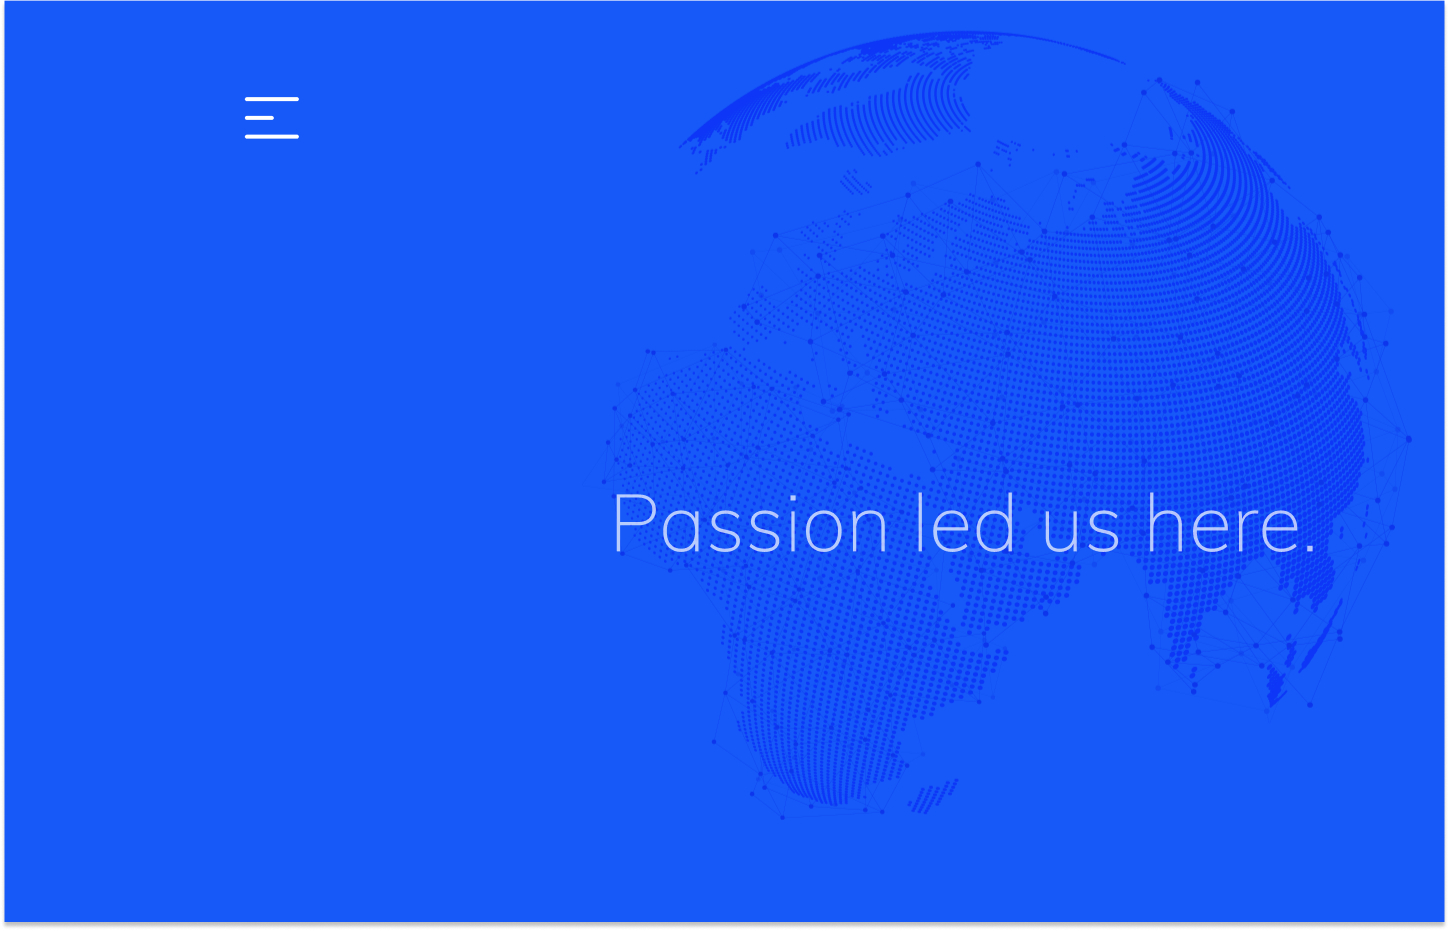
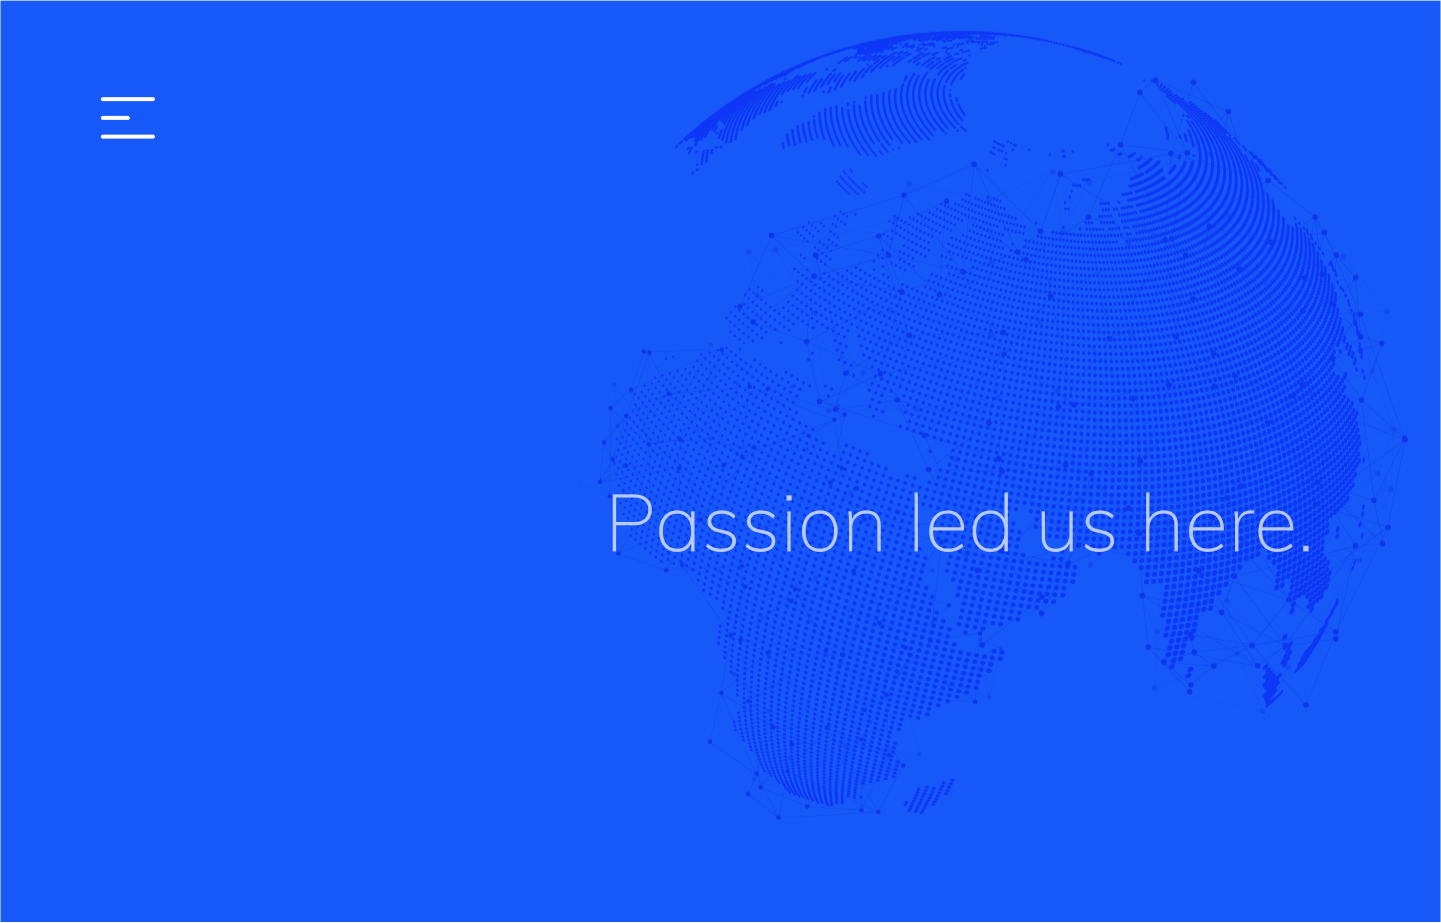
up

diff --git a/css.css b/css.css
@@ -326,11 +326,6 @@ ul {
   position: relative;
   width: 1400;
   height: fit-content;
-  background-image: url('');
-  background-repeat: no-repeat;
-  background-position-x: 900px;
-  background-position-y: -170px;
-  background-size: 113%;
   margin: auto;
   border: 5px dotted rgb(218, 2, 67);
   padding: 50px;
@@ -373,11 +368,6 @@ ul {
   font-family: 'Nanum Gothic', sans-serif;
   font-size: 16px;
   text-align: justify;
-  background-image: url('');
-    background-repeat: no-repeat;
-    background-position-x: 900px;
-    background-position-y: -170px;
-    background-size: 113%;
     margin: auto;
   border: 5px dotted rgb(218, 2, 67);
   padding: 40px;
@@ -516,11 +506,6 @@ ul {
     position: relative;
     width: 1400px;
     height: fit-content;
-    background-image: url('');
-    background-repeat: no-repeat;
-    background-position-x: 900px;
-    background-position-y: -170px;
-    background-size: 113%;
     margin: auto;
     border: 5px dotted rgb(218, 2, 67);
     padding: 40px;
@@ -630,11 +615,6 @@ textarea {
   position: relative;
   width: 1400px;
   height: fit-content;
-  background-image: url('');
-  background-repeat: no-repeat;
-  background-position-x: 900px;
-  background-position-y: -170px;
-  background-size: 113%;
   margin:auto;
   border: 5px dotted rgb(218, 2, 67);
   padding: 50px;
